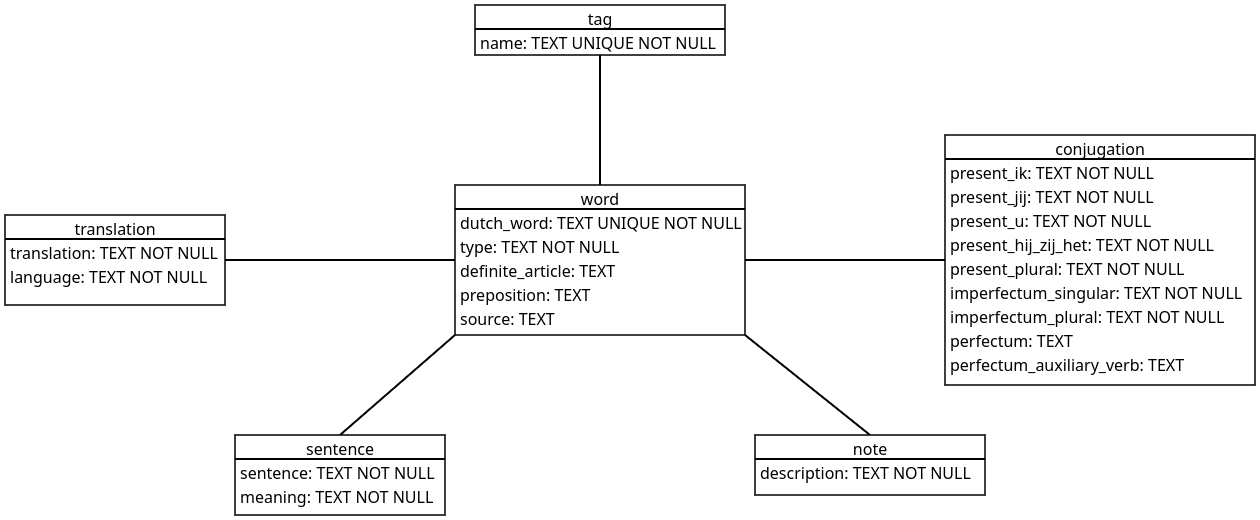
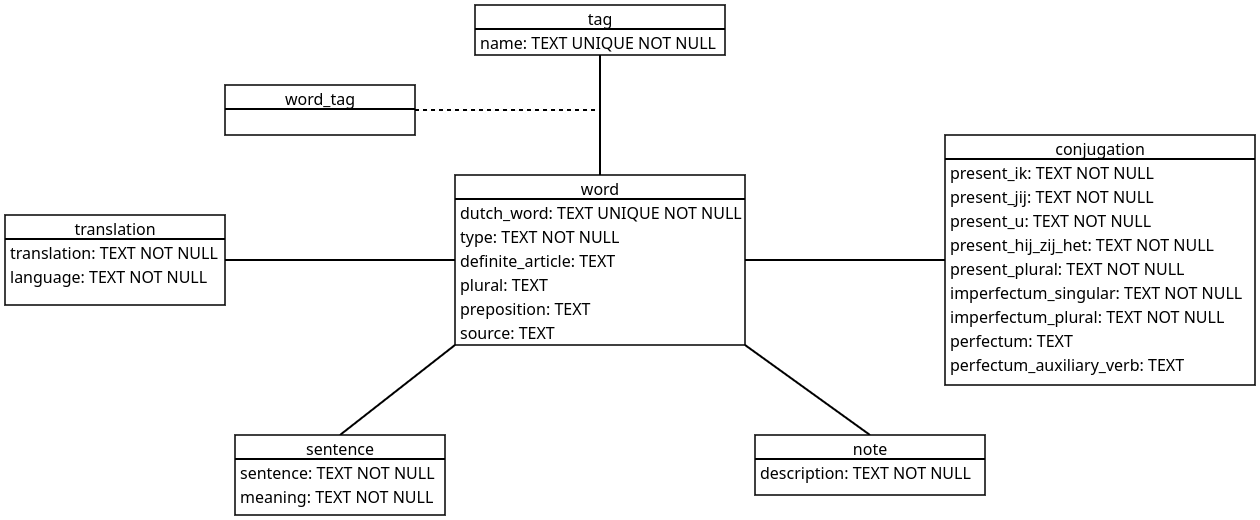
Fix adding tags, add support for link formatting, improve DB design (TODO: fix conjugation, add support for clicking on tags/referenced words)

diff --git a/src/views/AddWord.vue b/src/views/AddWord.vue
@@ -8,6 +8,7 @@ export default {
 				dutchWord: "",
 				type: "",
 				definiteArticle: "",
+				plural: "",
 				preposition: "",
 				source: "",
 				translations: [{ translation: "", language: "English" }],
@@ -26,24 +27,71 @@ export default {
 				notes: [""],
 				tags: []
 			},
-			availableTags: [],
 			availableWordTypes: ["noun", "verb", "separable verb", "adjective", "adverb", "pronoun", "preposition", "conjunction", "interjection", "not given"],
-			languageOptions: ["English", "Arabic"]
+			definiteArticles: ["de", "het", "de/het"],
+			languageOptions: ["English", "Arabic"],
+			availableTags: [],
+			selectedTagIds: [""]
 		}
 	},
 	methods: {
 		addTranslation() {
 			this.word.translations.push({ translation: "", language: "" });
 		},
+
 		addSentence() {
 			this.word.sentences.push({ sentence: "", meaning: "" });
 		},
+
 		addNote() {
 			this.word.notes.push("");
 		},
+
 		addTag() {
 			this.word.tags.push({id: -1, name: ""});
 		},
+
+		onTagSelect() {
+			const newTags = this.word.tags.filter(t => t && t.id === -1);
+
+			// Get full tags (id and name)
+			const existingSelected = this.selectedTagIds
+			.map(id => this.availableTags.find(tag => tag.id === id))
+			.filter(tag => tag) // remove null/undefined
+			.map(tag => ({ id: tag.id, name: tag.name }));
+
+			console.log(existingSelected);
+
+			this.word.tags = [...existingSelected, ...newTags];
+
+			// Find index of the last non-empty dropdown
+			const lastSelectedIndex = this.selectedTagIds.map(Boolean).lastIndexOf(true);
+
+			// Nothing selected
+			if (lastSelectedIndex === -1) {
+				this.selectedTagIds = [""];
+				return;
+			}
+
+			// Keep selections up to lastSelectedIndex
+			const kept = this.selectedTagIds.slice(0, lastSelectedIndex + 1);
+
+			// Find remaining unchosen tags
+			const remainingTags = this.availableTags.filter(
+				t => !existingSelected.some(sel => sel.id === t.id)
+			);
+
+			// Add one empty dropdown if there are still unchosen tags and the last kept isn't already empty
+			if (remainingTags.length > 0 && kept.at(-1) !== "") {
+				kept.push("");
+			} else if (kept.at(-1) === "") {
+				// If there are no remaining tags, remove unnecessary trailing empty
+				kept.pop();
+			}
+
+			this.selectedTagIds = kept;
+		},
+
 		async submitWord() {
 			console.log(this.word);
 
@@ -69,6 +117,7 @@ export default {
 			}
 		}
 	},
+
 	async mounted() {
 		this.availableTags = await invoke("get_tags");
 		console.log(this.availableTags);
@@ -101,7 +150,18 @@ export default {
 		<div v-if="word.type == 'noun'" class="field-container">
 			<p>Definite Article</p>
 			<div class="box-container">
-				<input v-model="word.definiteArticle" />
+				<select v-model="word.definiteArticle">
+					<option disabled value="">Select Definite Article</option>
+					<option v-for="(article, index) in definiteArticles" :key="index" :value="article">{{ article }}</option>
+				</select>
+			</div>
+		</div>
+
+		<!-- Plural (for most nouns) -->
+		<div v-if="word.type == 'noun'" class="field-container">
+			<p>Plural</p>
+			<div class="box-container">
+				<input v-model="word.plural" placeholder="Leave empty for no plural" />
 			</div>
 		</div>
 
@@ -167,19 +227,33 @@ export default {
 		<!-- Tags -->
 		<div class="field-container">
 			<p>Tags</p>
-			<div class="box-container">
-				<select >
-					<option disabled value="">Select Tag</option>
-					<option v-for="tag in availableTags" :key="tag.id" :value="tag.name">{{ tag.name }}</option>
+
+			<!-- Dropdowns for existing tags -->
+			<div
+				v-for="(selectedId, index) in selectedTagIds"
+				:key="'tag-select-' + index"
+				class="box-container"
+			>
+				<select v-model="selectedTagIds[index]" @change="onTagSelect">
+					<option value="">Select Tag</option>
+					<option
+						v-for="tag in availableTags.filter(availableTag => !word.tags.some(selectedTag => selectedTag.id === availableTag.id) || availableTag.id == selectedId)"
+						:key="tag.id"
+						:value="tag.id"
+					>
+						{{ tag.name }}
+					</option>
 				</select>
 			</div>
 
-			<div v-for="(tag, index) in word.tags" :key="index">
+			<!-- New tag inputs (id === -1) -->
+			<div v-for="(tag, index) in word.tags" :key="'new-tag-' + index">
 				<div v-if="tag.id === -1" class="box-container">
 					<input v-model="tag.name" placeholder="New Tag" />
 				</div>
 			</div>
-			<button @click="addTag">+ Add Tag</button>
+
+			<button @click="addTag" style="margin-top: 1rem;">+ Add Tag</button>
 		</div>
 
 		<!-- Conjugation (for verbs and separable verbs) -->

diff --git a/src/views/WordDetails.vue b/src/views/WordDetails.vue
@@ -1,33 +1,70 @@
 <script>
+import { openUrl } from "@tauri-apps/plugin-opener";
+
 export default {
 	data() {
 		return {
-			word: JSON.parse(localStorage.getItem('word'))
+			word: JSON.parse(localStorage.getItem("word"))
 		};
 	},
 	methods: {
 		formatItalic(text) {
-			if (!text) return '';
-			return text.replace(/\*(.*?)\*/g, '<i>$1</i>');
+			if (!text) return "";
+
+			// Convert *text* to <i>text</i>
+			return text.replace(/\*(.*?)\*/g, "<i>$1</i>");
+		},
+
+		formatLinks(text) {
+			if (!text) return "";
+
+			// Convert [text](url) to <a href="url">text</a>
+			return text.replace(/\[(.*?)\]\((.*?)\)/g, (match, text, url) => {
+				if (url.startsWith("https://") || url.startsWith("http://")) {
+					return `<a style="color: #AB9C84; cursor: pointer; text-decoration: underline;" data-external-url="${url}">${text}</a>`;
+				} else {
+					return `<a style="color: #AB9C84;" href="${url}">${text}</a>`;
+				}
+			});
+		},
+
+		formatText(text) {
+			// Apply all formatting
+			let formatted = this.formatItalic(text);
+			formatted = this.formatLinks(formatted);
+
+			return formatted;
+		},
+
+		handleClick(event) {
+			const targetData = event.target.dataset;
+
+			if (targetData.externalUrl)
+				openUrl(event.target.dataset.externalUrl);
 		}
 	}
 }
 </script>
 
 <template>
-	<div class="main-container">
+	<div class="main-container" @click="handleClick">
 		<div v-if="word" class="details-container">
 			<!-- Main word details -->
-			<h1>{{ word.dutchWord }}{{ word.definiteArticle ? ', ' : '' }} {{ word.definiteArticle }}</h1>
+			<h1>{{ word.dutchWord }}{{ word.definiteArticle ? ", " : "" }} {{ word.definiteArticle }}</h1>
 			<h4>({{ word.type }})</h4>
+
+			<br>
 
 			<div v-for="translation in word.translations">
 				<p v-if="translation.language == 'English'" class="translation">→ <i>{{ translation.translation }}</i></p>
 				<p v-if="translation.language == 'Arabic'" class="translation arabic-translation">{{ translation.translation }} ←</p>
 			</div>
 
+			<hr />
+
+			<p v-if="word.plural">Plural: {{ word.plural }}</p>
 			<p v-if="word.preposition">Preposition: {{ word.preposition }}</p>
-			<p v-if="word.source">Source: {{ word.source }}</p>
+			<p v-if="word.source">Source: <span v-html="formatText(word.source)"></span></p>
 
 			<hr />
 
@@ -36,8 +73,8 @@ export default {
 
 			<div class="sentences-container">
 				<div v-for="sentence in word.sentences" class="box-container">
-					<p v-html="formatItalic(sentence.sentence)"></p>
-					<p>→ <span v-html="formatItalic(sentence.meaning)"></span></p>
+					<p v-html="formatText(sentence.sentence)"></p>
+					<p>→ <span v-html="formatText(sentence.meaning)"></span></p>
 				</div>
 			</div>
 
@@ -47,7 +84,7 @@ export default {
 			<h2>Notes</h2>
 
 			<ul>
-				<li v-for="note in word.notes">{{ note }}</li>
+				<li v-for="note in word.notes" v-html="formatText(note)"></li>
 			</ul>
 
 			<hr />

diff --git a/src/views/WordList.vue b/src/views/WordList.vue
@@ -49,7 +49,7 @@ export default {
 
 			<div v-for="translation in word.translations">
 				<p v-if="translation.language == 'English'" class="translation">→ <i>{{ translation.translation }}</i></p>
-				<p v-if="translation.language == 'Arabic'" class="translation arabic-translation">{{ translation.translation }} ←</p>
+				<p v-else-if="translation.language == 'Arabic'" class="translation arabic-translation">{{ translation.translation }} ←</p>
 			</div>
 		</div>
 	</div>

diff --git a/src/components/Header.vue b/src/components/Header.vue
@@ -76,12 +76,12 @@ export default {
 		<!-- Page name -->
 		<h2>
 			{{
-			$route.path === '/' 
-			? 'My Words' 
-			: $route.path === '/add' 
-			? 'Add Word' 
-			: $route.path === '/word' 
-			? 'Word Details' 
+			$route.path === '/'
+			? 'My Words'
+			: $route.path === '/add'
+			? 'Add Word'
+			: $route.path === '/word'
+			? 'Word Details'
 			: ''
 			}}
 		</h2>

diff --git a/index.html b/index.html
@@ -2,7 +2,7 @@
 <html lang="en">
 	<head>
 		<meta charset="UTF-8" />
-		<link rel="icon" type="image/svg+xml" href="/vite.svg" />
+		<link rel="icon" type="image/png" href="/logo.png" />
 		<meta name="viewport" content="width=device-width, initial-scale=1.0, maximum-scale=1.0, user-scalable=0, viewport-fit=cover"/>
 		<title>Rusty Words</title>
 	</head>

diff --git a/src-tauri/src/lib.rs b/src-tauri/src/lib.rs
@@ -8,19 +8,20 @@ struct Word {
     dutch_word: String,
     r#type: String,
     definite_article: Option<String>,
+    plural: Option<String>,
     preposition: Option<String>,
     source: Option<String>,
     translations: Vec<Translation>,
     conjugation: Option<Conjugation>,
     sentences: Vec<Sentence>,
     notes: Vec<String>,
-    tags: Vec<Tag>,
+    tags: Vec<Tag>
 }
 
 #[derive(serde::Serialize, serde::Deserialize)]
 struct Translation {
     translation: String,
-    language: String,
+    language: String
 }
 
 #[derive(serde::Serialize, serde::Deserialize)]
@@ -34,19 +35,19 @@ struct Conjugation {
     imperfectum_singular: String,
     imperfectum_plural: String,
     perfectum: Option<String>,
-    perfectum_auxiliary_verb: Option<String>,
+    perfectum_auxiliary_verb: Option<String>
 }
 
 #[derive(serde::Serialize, serde::Deserialize)]
 struct Sentence {
     sentence: String,
-    meaning: String,
+    meaning: String
 }
 
 #[derive(serde::Serialize, serde::Deserialize)]
 struct Tag {
     id: i32,
-    name: String,
+    name: String
 }
 
 #[tauri::command]
@@ -80,7 +81,7 @@ fn get_all_words_inner(app_handle: tauri::AppHandle) -> Result<Vec<Word>> {
     let db_path = app_handle.state::<std::path::PathBuf>();
     let conn = Connection::open(db_path.inner())?;
 
-    let mut stmt = conn.prepare("SELECT id, dutch_word, type, definite_article, preposition, source FROM word")?;
+    let mut stmt = conn.prepare("SELECT id, dutch_word, type, definite_article, plural, preposition, source FROM word")?;
 
     let word_iter = stmt.query_map([], |row| {
         Ok(Word {
@@ -88,8 +89,9 @@ fn get_all_words_inner(app_handle: tauri::AppHandle) -> Result<Vec<Word>> {
             dutch_word: row.get(1)?,
             r#type: row.get(2)?,
             definite_article: row.get(3)?,
-            preposition: row.get(4)?,
-            source: row.get(5)?,
+            plural: row.get(4)?,
+            preposition: row.get(5)?,
+            source: row.get(6)?,
             translations: vec![],
             conjugation: None,
             sentences: vec![],
@@ -151,8 +153,8 @@ fn get_all_words_inner(app_handle: tauri::AppHandle) -> Result<Vec<Word>> {
 
         // Get tags
         let mut stmt = conn.prepare(
-            "SELECT t.name FROM tag t
-            INNER JOIN word_tag wt ON wt.tag_id = t.id
+            "SELECT t.id, t.name FROM tag t
+            JOIN word_tag wt ON wt.tag_id = t.id
             WHERE wt.word_id = ?")?;
 
         let tag_iter = stmt.query_map([word.id], |row| {
@@ -181,12 +183,13 @@ fn add_word_inner(app_handle: tauri::AppHandle, word: Word) -> Result<()> {
 
     // Insert word
     tx.execute(
-        "INSERT INTO word (dutch_word, type, definite_article, preposition, source)
-         VALUES (?1, ?2, ?3, ?4, ?5)",
+        "INSERT INTO word (dutch_word, type, definite_article, plural, preposition, source)
+         VALUES (?1, ?2, ?3, ?4, ?5, ?6)",
         params![
             word.dutch_word,
             word.r#type,
             word.definite_article,
+            word.plural,
             word.preposition,
             word.source,
         ],
@@ -286,8 +289,9 @@ pub fn run() {
                     id INTEGER PRIMARY KEY AUTOINCREMENT,
                     dutch_word TEXT UNIQUE NOT NULL CHECK (dutch_word <> ''),
                     type TEXT NOT NULL CHECK (type <> '' AND type IN ('noun', 'verb', 'separable verb', 'adjective', 'adverb', 'pronoun', 'preposition', 'conjunction', 'interjection', 'not given')),
-                    definite_article TEXT,
-                    preposition TEXT,
+                    definite_article TEXT CHECK (type != 'noun' OR definite_article IN ('de', 'het', 'de/het')),
+                    plural TEXT,
+                    preposition TEXT CHECK (type != 'separable verb' OR (preposition IS NOT NULL AND preposition <> '')),
                     source TEXT
                 );
 
@@ -351,3 +355,4 @@ pub fn run() {
         .run(tauri::generate_context!())
         .expect("Error while running tauri application");
 }
+
